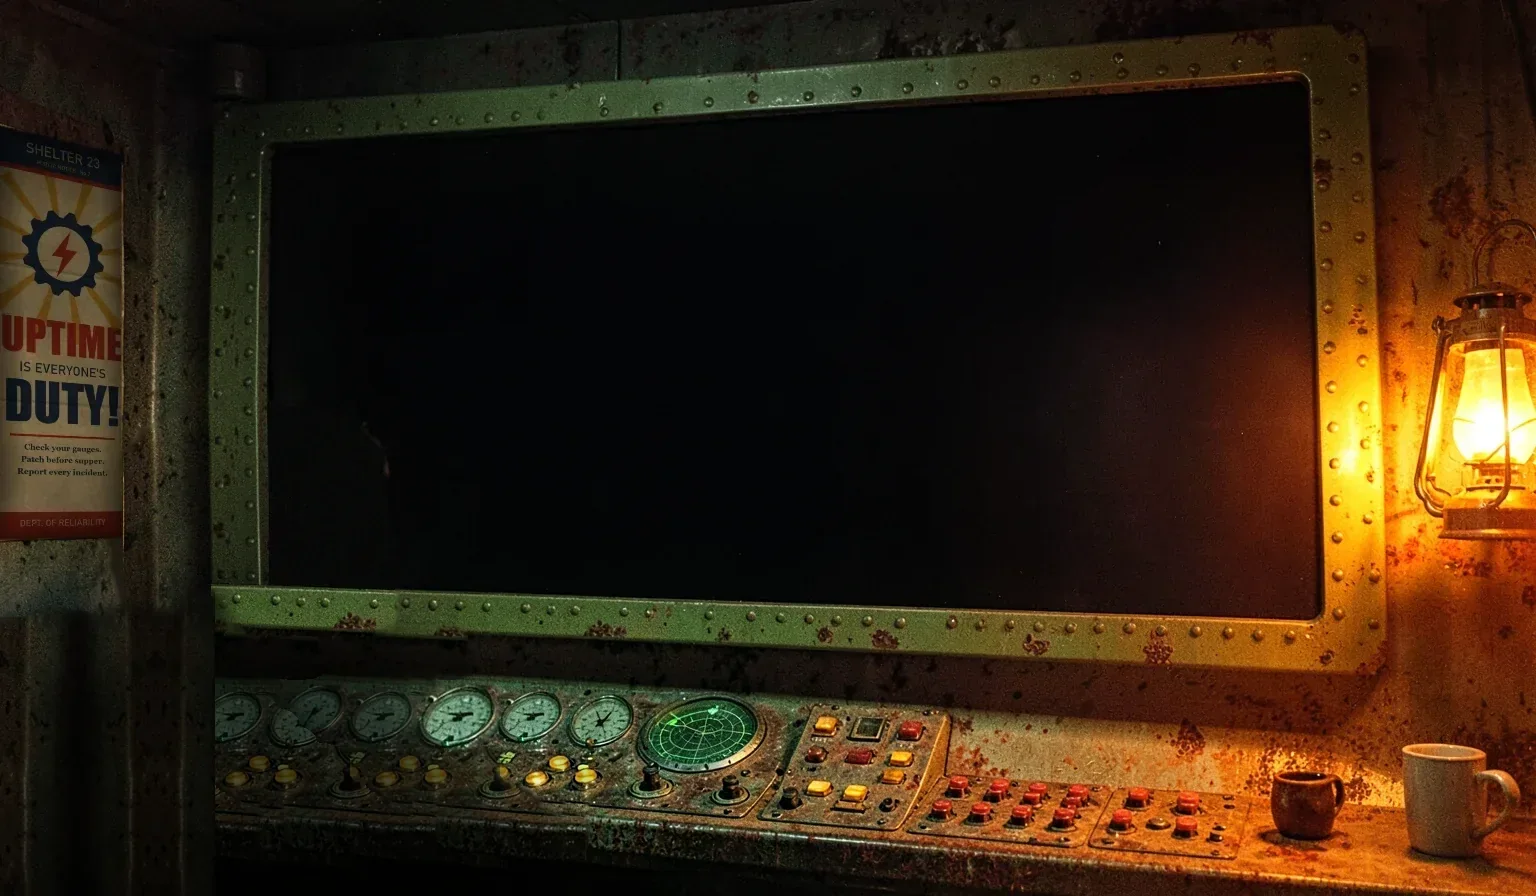
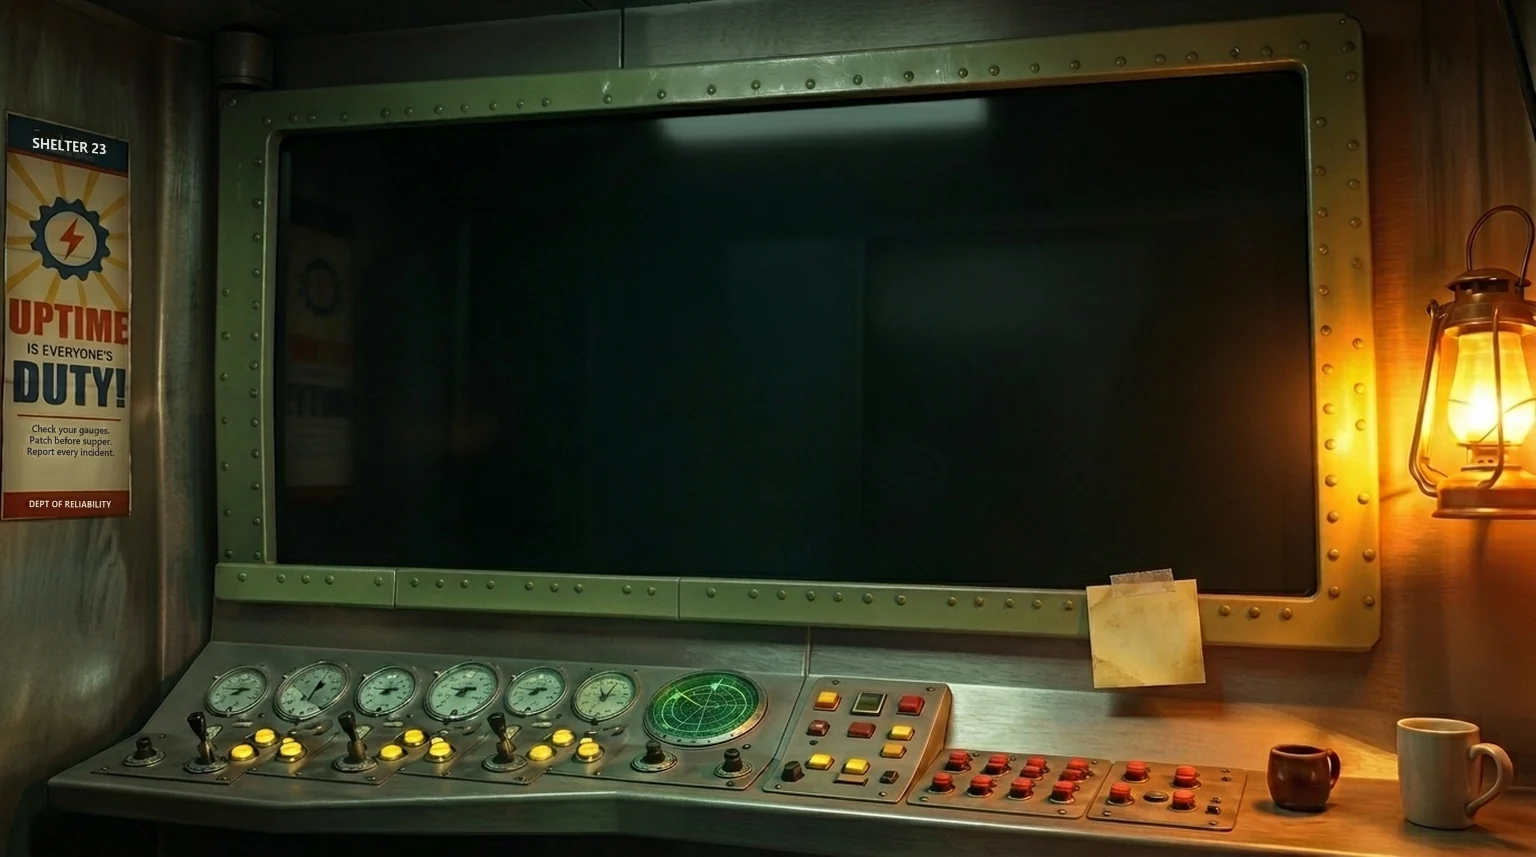
Vault: replace the room plate with a clean regenerated one
The old plate's left console was stitched over a removed figure, leaving
seams that kept resurfacing. The new plate (Gemini edit, scaled to
1536x857) has one continuous desk; remeasure the screen quad, lamps,
lantern, resident and note against it, rewrite the poster's garbled
small print, and hand-letter the hint onto the note painted in the plate
instead of overlaying a separate post-it image.

diff --git a/src/vault/scene.ts b/src/vault/scene.ts
@@ -1,42 +1,42 @@
 /* Geometry of the painted room. Every number here is in plate pixels: the
-   coordinate space of public/vault/room.webp (1536 × 896). */
+   coordinate space of public/vault/room.webp (1536 × 857). */
 
 import type { SectionId } from './sections';
 
 export type Vec2 = readonly [number, number];
 
-export const PLATE = { w: 1536, h: 896 } as const;
+export const PLATE = { w: 1536, h: 857 } as const;
 
 /** Inner edge of the CRT glass, clockwise from top-left. */
 export const SCREEN_QUAD: readonly [Vec2, Vec2, Vec2, Vec2] = [
-  [271, 148],
-  [1310, 82],
-  [1320, 620],
-  [268, 585],
+  [279, 134],
+  [1303, 70],
+  [1316, 595],
+  [277, 563],
 ];
 
 /** The HTML terminal is authored at this size, then warped onto the quad. */
 export const DESIGN = { w: 1200, h: 545 } as const;
 
 /** The cut-out resident layer and where it sits on the plate. */
-export const RESIDENT = { x: 40, y: 471, w: 420, h: 425 } as const;
+export const RESIDENT = { x: 40, y: 432, w: 420, h: 425 } as const;
 
-export const LANTERN: Vec2 = [1478, 408];
+export const LANTERN: Vec2 = [1474, 386];
 
 /** One painted console button per file, in reading order left to right. */
 export const BUTTONS: Record<SectionId, { at: Vec2; lamp: 'amber' | 'red' }> = {
-  identity: { at: [559, 763], lamp: 'amber' },
-  hostkind: { at: [586, 775], lamp: 'amber' },
-  experience: { at: [825, 723], lamp: 'amber' },
-  projects: { at: [903, 759], lamp: 'amber' },
-  skills: { at: [819, 788], lamp: 'amber' },
-  education: { at: [910, 730], lamp: 'red' },
-  github: { at: [1036, 788], lamp: 'red' },
-  contact: { at: [1186, 801], lamp: 'red' },
+  identity: { at: [563, 737], lamp: 'amber' },
+  hostkind: { at: [588, 750], lamp: 'amber' },
+  experience: { at: [825, 700], lamp: 'amber' },
+  projects: { at: [894, 749], lamp: 'amber' },
+  skills: { at: [820, 762], lamp: 'amber' },
+  education: { at: [912, 704], lamp: 'red' },
+  github: { at: [1021, 786], lamp: 'red' },
+  contact: { at: [1184, 796], lamp: 'red' },
 };
 
-/** The sticky note taped to the lower-right bezel (public/vault/postit.webp, 330 × 355). */
-export const NOTE = { x: 1176, y: 626, w: 124, h: 133 } as const;
+/** The sticky note painted on the lower-right bezel; the hint is handwritten onto it. */
+export const NOTE = { x: 1088, y: 584, w: 112, h: 102, tilt: -3.5 } as const;
 
 export const SCREEN_BOUNDS = (() => {
   const xs = SCREEN_QUAD.map(p => p[0]);

diff --git a/src/vault/vault.css b/src/vault/vault.css
@@ -176,50 +176,31 @@ body {
 }
 
 /* the hint lives on a sticky note on the bezel, lit like the rest of the plate */
+/* pencil on the note painted into the plate; the element sits square on the paper */
 .vault-note {
   position: absolute;
   z-index: 1;
-  aspect-ratio: 330 / 355;
   box-sizing: border-box;
   padding: 26px 10px 0 12px;
   display: flex;
   flex-direction: column;
-  gap: 6px;
-  background: center / 100% 100% no-repeat;
+  gap: 8px;
   font: 400 15px/1 var(--hand);
-  color: rgba(28, 22, 14, 0.86);
+  color: rgba(52, 36, 18, 0.82);
+  mix-blend-mode: multiply;
   pointer-events: none;
   user-select: none;
-  transform-origin: 50% 4%;
-  transform: rotate(5deg) translateY(-6px);
-  filter: brightness(0.66) sepia(0.18) saturate(0.9) drop-shadow(2px 4px 3px rgba(0, 0, 0, 0.55));
   opacity: 0;
-  transition:
-    opacity 0.6s ease,
-    transform 0.6s cubic-bezier(0.3, 1.4, 0.5, 1);
+  transition: opacity 0.6s ease;
 }
 
 .vault-note.is-up {
   opacity: 1;
-  transform: rotate(5deg);
 }
 
 .vault-note span:last-child {
   transform: rotate(-3deg);
   font-size: 13.5px;
-}
-
-/* a strip of tape holding it to the frame */
-.vault-note::before {
-  content: '';
-  position: absolute;
-  left: 50%;
-  top: -7px;
-  width: 46px;
-  height: 15px;
-  transform: translateX(-50%) rotate(-4deg);
-  background: rgba(225, 215, 185, 0.42);
-  box-shadow: 0 0 1px rgba(0, 0, 0, 0.3);
 }
 
 /* ------------------------------------------------------------------- crt */

diff --git a/src/vault/VaultApp.tsx b/src/vault/VaultApp.tsx
@@ -419,7 +419,7 @@ export default function VaultApp() {
           <div
             aria-hidden="true"
             className={`vault-note${phase === 'ready' && !file ? ' is-up' : ''}`}
-            style={{ left: NOTE.x, top: NOTE.y, width: NOTE.w, backgroundImage: `url(${ASSETS}postit.webp)` }}
+            style={{ left: NOTE.x, top: NOTE.y, width: NOTE.w, height: NOTE.h, rotate: `${NOTE.tilt}deg` }}
           >
             <span>click a panel</span>
             <span>1–8 open files</span>
@@ -451,7 +451,7 @@ function HandheldRoom({ onLoad }: { onLoad: () => void }) {
       const scale = Math.max(width / 980, height / PLATE.h);
       // frame the resident's head and the left half of the glass
       const x = Math.min(0, Math.max(width - PLATE.w * scale, width * 0.42 - 470 * scale));
-      const y = Math.min(0, Math.max(height - PLATE.h * scale, height * 0.5 - 430 * scale));
+      const y = Math.min(0, Math.max(height - PLATE.h * scale, height * 0.5 - 410 * scale));
       stage.style.transform = `translate3d(${x}px, ${y}px, 0) scale(${scale})`;
     };
     place();

diff --git a/src/vault/glass.ts b/src/vault/glass.ts
@@ -80,12 +80,12 @@ const QUAD_FRAG = /* glsl */ `
     add += g * uPower * roll * vec3(0.03, 0.09, 0.05);
     float sheen = smoothstep(0.28, 0.0, abs(suv.x * 0.55 + suv.y - 0.32)) * (1.0 - suv.y);
     add += g * sheen * 0.022 * vec3(0.75, 1.0, 0.85);
-    float lr = exp(-pow(length((p - vec2(1282.0, 318.0)) / vec2(55.0, 150.0)), 2.0));
+    float lr = exp(-pow(length((p - vec2(1277.0, 296.0)) / vec2(55.0, 150.0)), 2.0));
     add += g * lr * fl * vec3(0.22, 0.12, 0.035);
     add += g * uPower * vec3(0.0, 0.010, 0.005) * (hash(vec2(floor(uTime * 24.0), 3.0)) - 0.3);
 
     /* ---- phosphor light spilling onto the bezel, desk and wall ---- */
-    vec2 over = max(abs(suv - 0.5) - 0.5, 0.0) * vec2(1045.0, 490.0);
+    vec2 over = max(abs(suv - 0.5) - 0.5, 0.0) * vec2(1030.0, 480.0);
     float dpx = length(over);
     float spill = exp(-dpx / 70.0) * 0.12 + exp(-dpx / 300.0) * 0.06;
     // the room takes it fully; his back only catches a little, with no seam at the glass edge
